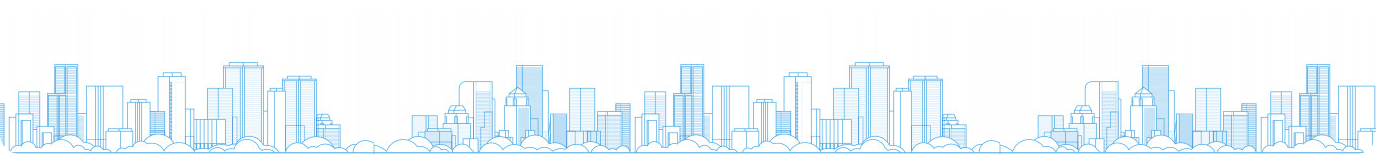
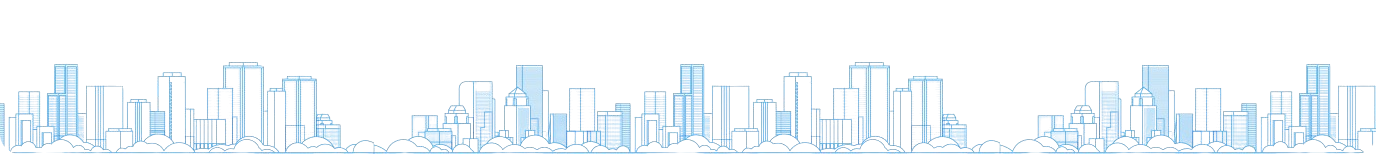
fix: handle run tests

diff --git a/src/components/SearchBar.tsx b/src/components/SearchBar.tsx
@@ -26,14 +26,14 @@ export default function SearchBar() {
           <input
             aria-label="Location"
             placeholder="Location"
-            className="w-full bg-transparent text-sm outline-none placeholder:text-zinc-400 dark:text-zinc-100 dark:placeholder:text-zinc-500 py-3"
+            className="w-full bg-transparent text-sm outline-none placeholder:text-zinc-400 dark:text-zinc-100 dark:placeholder:text-zinc-500 py-3 text-black"
             value={location}
             onChange={(e) => setLocation(e.target.value)}
           />
         </label>
 
         <label
-          className="group relative flex items-center gap-3  px-4 py-3 ring-1 ring-zinc-200 focus-within:ring-2 focus-within:ring-blue-500 dark:ring-zinc-700"
+          className="group relative flex items-center gap-3  px-4 py-3 ring-1 ring-zinc-200 focus-within:ring-2 focus-within:ring-blue-500 dark:ring-zinc-700 text-black"
           style={{
             outline: "none",
             border: "none",
@@ -45,7 +45,7 @@ export default function SearchBar() {
           <input
             aria-label="Keyword"
             placeholder="Keyword"
-            className="w-full bg-transparent text-sm outline-none placeholder:text-zinc-400 dark:text-zinc-100 dark:placeholder:text-zinc-500"
+            className="w-full bg-transparent text-sm outline-none placeholder:text-zinc-400 dark:text-zinc-100 dark:placeholder:text-zinc-500 text-black"
             value={keyword}
             onChange={(e) => setKeyword(e.target.value)}
           />
@@ -63,7 +63,7 @@ export default function SearchBar() {
           <input
             aria-label="Salary Range"
             placeholder="Salary Range"
-            className="w-full bg-transparent text-sm outline-none placeholder:text-zinc-400 dark:text-zinc-100 dark:placeholder:text-zinc-500"
+            className="w-full bg-transparent text-sm outline-none placeholder:text-zinc-400 dark:text-zinc-100 dark:placeholder:text-zinc-500 text-black"
             value={salary}
             onChange={(e) => setSalary(e.target.value)}
           />

diff --git a/src/components/ThemeToggle.tsx b/src/components/ThemeToggle.tsx
@@ -1,5 +1,6 @@
 "use client";
 import { useEffect, useState } from "react";
+import { FaMoon, FaSun } from "react-icons/fa";
 
 function getSystemPreference(): "dark" | "light" {
   if (typeof window === "undefined") return "light";
@@ -33,10 +34,9 @@ export default function ThemeToggle() {
   return (
     <button
       onClick={toggle}
-      aria-label="Toggle dark mode"
-      className="inline-flex items-center gap-2 rounded-xl border border-zinc-200 bg-white px-3 py-2 text-xs font-medium text-zinc-700 shadow-sm transition hover:bg-zinc-100 dark:border-zinc-700 dark:bg-zinc-800 dark:text-zinc-200 dark:hover:bg-zinc-700"
+      className="p-2 rounded-full bg-gray-200 dark:bg-gray-700 text-gray-800 dark:text-yellow-400 transition-all"
     >
-      {theme === "dark" ? <span>Light</span> : <span>Dark</span>}
+      {theme === "dark" ? <FaSun size={20} /> : <FaMoon size={20} />}
     </button>
   );
 }

diff --git a/jest.config.js b/jest.config.js
@@ -1,15 +1,23 @@
-const nextJest = require('next/jest');
+const nextJest = require("next/jest");
 
 const createJestConfig = nextJest({
-  dir: './',
+  dir: "./",
 });
 
 const customJestConfig = {
-  setupFilesAfterEnv: ['<rootDir>/jest.setup.js'],
+  setupFilesAfterEnv: ["<rootDir>/jest.setup.js"],
   moduleNameMapper: {
-    '^@/(.*)$': '<rootDir>/src/$1',
+    "^@/(.*)$": "<rootDir>/src/$1",
   },
-  testEnvironment: 'jsdom',
+  testEnvironment: "jsdom",
 };
 
 module.exports = createJestConfig(customJestConfig);
+module.exports = {
+  preset: "ts-jest",
+  testEnvironment: "jsdom",
+  moduleNameMapper: {
+    "^@/(.*)$": "<rootDir>/src/$1",
+  },
+  setupFilesAfterEnv: ["<rootDir>/jest.setup.js"],
+};

diff --git a/src/app/job-search/page.tsx b/src/app/job-search/page.tsx
@@ -23,7 +23,7 @@ export default function JobSearchPage() {
 
       <div>
         <Image
-          src="/images/CityLandscape.svg"
+          src="/images/CityLandscape.png"
           alt="Jobify logo"
           width={100}
           height={100}

diff --git a/README.md b/README.md
@@ -35,4 +35,5 @@ The easiest way to deploy your Next.js app is to use the [Vercel Platform](https
 
 Check out our [Next.js deployment documentation](https://nextjs.org/docs/app/building-your-application/deploying) for more details.
 
-npx jest src/**tests**/second-problem.test.tsx
+npx jest --config jest.config.cjs
+npx jest --config jest.config.cjs src/**tests**/CityPills.test.tsx
